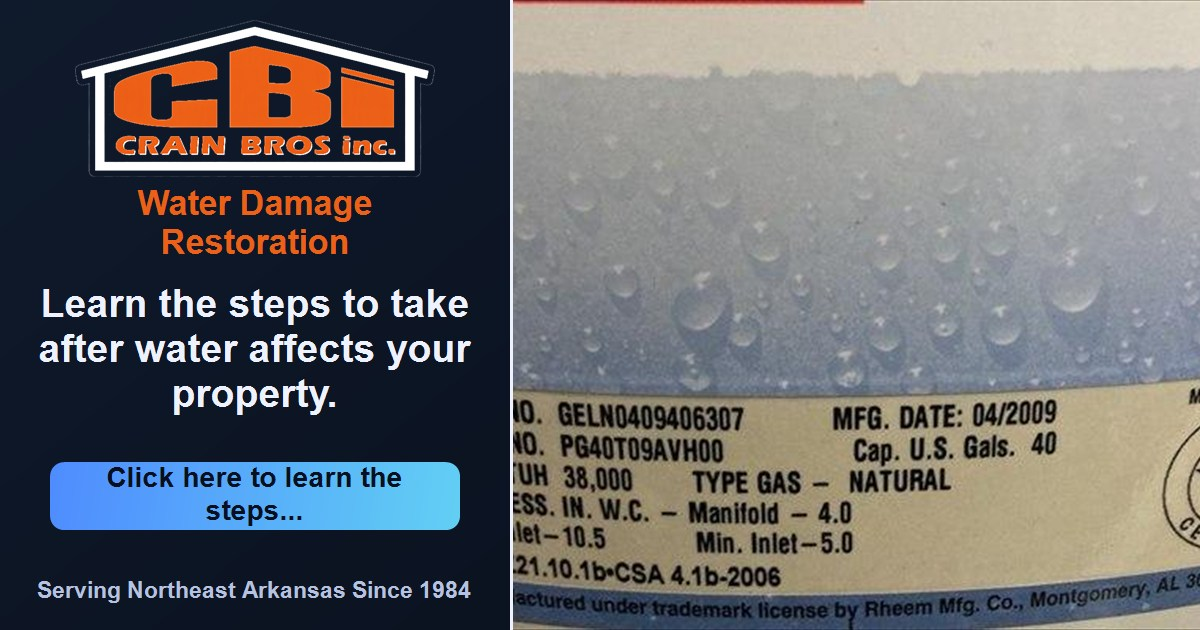
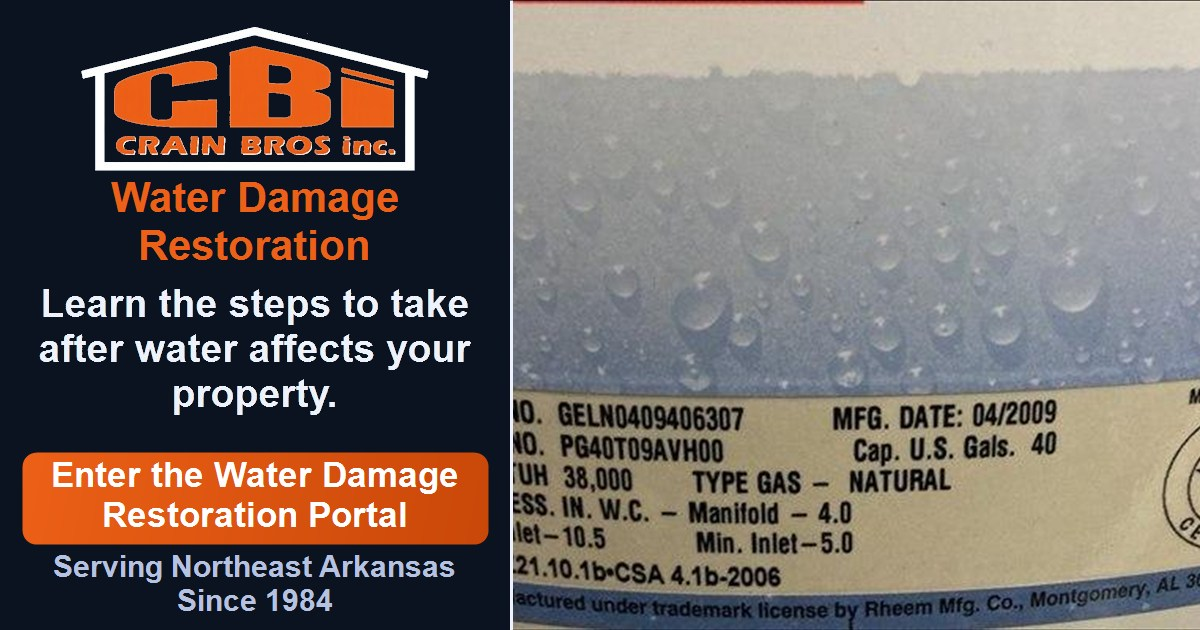
Website update
Automated publish via Publish-CbiWebsite.ps1
Run timestamp: 2026-08-25_165947
Changed entries: 2
Safety gate: PASS

diff --git a/pages/water-damage.html b/pages/water-damage.html
@@ -198,7 +198,7 @@
       <h1>Water Damage Restoration Services in Northeast Arkansas</h1>
       <p class="lead">Water damage creates many needs after it affects your property. Crain Bros Inc helps property owners move from the first wet area through inspection, cause and origin determination, mitigation, drying, documentation, repair, and full reconstruction.</p>
       <div class="hero-actions">
-        <a class="btn btn-primary" href="tel:+18709356019">Call (870) 935-6019</a>
+        <a class="foundation-orange-cta" href="tel:+18709356019">Call to Schedule Your Water Damage Restoration</a>
       </div>
     </div>
   </section>
@@ -274,7 +274,10 @@
 
       </div>
     </div>
-  </section>
+        <div class="hero-actions">
+        <a class="foundation-orange-cta" href="tel:+18709356019">Discuss Your Water Damage Restoration Needs</a>
+      </div>
+</section>
 
   <section class="section">
     <div class="container">
@@ -422,7 +425,10 @@
         </figure>
       </div>
     </div>
-  </section>
+        <div class="hero-actions">
+        <a class="foundation-orange-cta" href="tel:+18709356019">Talk With a Water Damage Restoration Contractor</a>
+      </div>
+</section>
 
 
 
@@ -486,12 +492,15 @@
         </figure>
       </div>
     </div>
-  </section>
+        <div class="hero-actions">
+        <a class="foundation-orange-cta" href="tel:+18709356019">Plan Water Damage Repairs and Reconstruction</a>
+      </div>
+</section>
 <section class="section section-accent">
     <div class="container">
       <h2>Water Damage Restoration Services</h2>
       <div class="grid-3">
-        <article class="tile"><h3>Emergency Water Extraction</h3><p class="muted">Emergency water extraction is part of property damage mitigation after a water event. Removing standing and absorbed water helps limit additional damage before cleaning, drying, and repairs move forward.</p><a class="text-link" href="tel:+18709356019">Call for Emergency Water Extraction</a><br><a class="text-link" href="../pages/emergency-response.html">View Emergency Response Services</a></article>
+        <article class="tile"><h3>Emergency Water Extraction</h3><p class="muted">Emergency water extraction is part of property damage mitigation after a water event. Removing standing and absorbed water helps limit additional damage before cleaning, drying, and repairs move forward.</p><a class="foundation-orange-cta" href="tel:+18709356019">Call for Emergency Water Extraction</a><br><a class="text-link" href="../pages/emergency-response.html">View Emergency Response Services</a></article>
         <article class="tile"><h3>Leak Detection &amp; Cause and Origin Determination</h3><p class="muted">Identifying where the water came from, how it entered the building, and what materials or systems were affected.</p></article>
         <article class="tile"><h3>Assessment &amp; Diagnosis</h3><p class="muted">Evaluating visible and hidden damage, affected materials, moisture conditions, structural concerns, and the direction needed for restoration.</p></article>
         <article class="tile"><h3>Mitigation &amp; Structural Drying</h3><p class="muted">Protecting the property, separating affected areas where needed, and drying the structure based on moisture readings and material conditions.</p></article>
